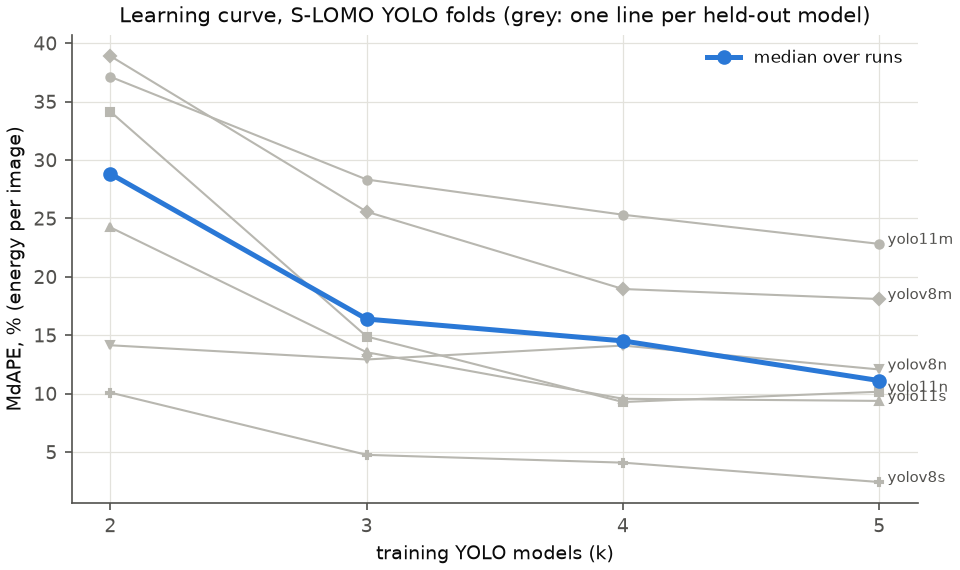
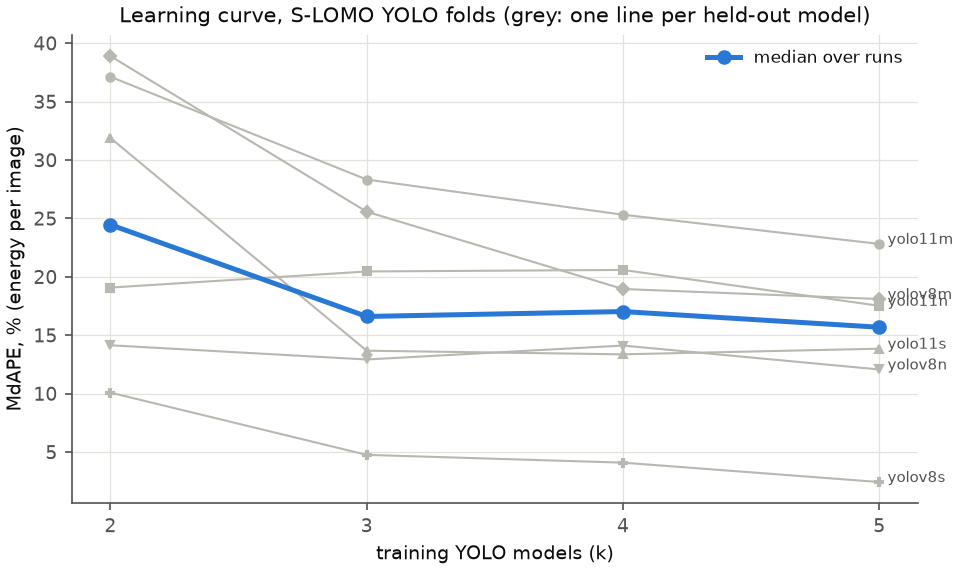
docs(analytics): regenerate results, model cards and figures (Mode L verdicts per configuration, per-fold learning curve, frozen-model hashes from the runlog)
Real-data runs: learning-curve (run ad18073d...) and report. No fit, no frozen pickle touched.

diff --git a/analytics/reports/results.md b/analytics/reports/results.md
@@ -18,18 +18,18 @@ Every row names one split, one target, one metric, an interval and a run_id. Int
 
 Mode L is a ladder: no single rung is the pre-registered headline, so every rung is listed with the same metric and interval. Counter overhead: counters-off (`ref`) cells drew +0.320 W (+3.34 %) against the same 1 configuration with counters on (`reports/eda.md`, section 7.2; family, order and the counters switch are confounded, so this bounds the overhead only loosely). Perf was running in every v2 counter cell, so the overhead is inside every number here.
 
-*Split: leave one YOLO base model out. Target: whole-cell energy. n = 161 held-out cells in 5 folds (dataset v2, nov2026 rig). run_id: `acc4f1bf2b524febb2565e1d8fe3e79b`. Mode A's energy noise floor (median repeat CV, configurations with at least 2 cells) 0.6 %, reused here as the indistinguishability margin.* Median whole-cell energy APE per rung over held-out cells; `L1-cell` is exploratory (see section 9).
+*Split: leave one YOLO base model out. Target: whole-cell energy. n = 161 held-out cells in 38 configurations and 5 folds (dataset v2, nov2026 rig). run_id: `acc4f1bf2b524febb2565e1d8fe3e79b`. Mode A's energy noise floor (median repeat CV, configurations with at least 2 cells) 0.6 %, reused here as the indistinguishability margin.* Median whole-cell energy APE per rung over held-out cells; `L1-cell` is exploratory (see section 9).
 
-| rung | split | target | metric | estimate | 95 % CI | n | run_id | status |
-|---|---|---|---|---|---|---|---|---|
-| L0 | leave one YOLO model out | whole-cell energy | MdAPE % | 5.8 | [3.4, 7.4] | 161 | acc4f1bf2b524febb2565e1d8fe3e79b | pre-registered rung |
-| L1 | leave one YOLO model out | whole-cell energy | MdAPE % | 6.7 | [4.7, 13.2] | 161 | acc4f1bf2b524febb2565e1d8fe3e79b | pre-registered rung |
-| L1-cell (exploratory) | leave one YOLO model out | whole-cell energy | MdAPE % | 5.6 | [4.2, 6.8] | 161 | acc4f1bf2b524febb2565e1d8fe3e79b | exploratory (added after a scored fold) |
-| L2 | leave one YOLO model out | whole-cell energy | MdAPE % | 5.1 | [4.3, 8.7] | 161 | acc4f1bf2b524febb2565e1d8fe3e79b | pre-registered rung |
-| L3-ridge | leave one YOLO model out | whole-cell energy | MdAPE % | 2.9 | [2.0, 4.1] | 161 | acc4f1bf2b524febb2565e1d8fe3e79b | pre-registered rung |
-| L3-trees | leave one YOLO model out | whole-cell energy | MdAPE % | 1.2 | [0.8, 1.5] | 161 | acc4f1bf2b524febb2565e1d8fe3e79b | pre-registered rung |
-| L4-ridge | leave one YOLO model out | whole-cell energy | MdAPE % | 3.1 | [2.2, 4.3] | 161 | acc4f1bf2b524febb2565e1d8fe3e79b | pre-registered rung |
-| L4-trees | leave one YOLO model out | whole-cell energy | MdAPE % | 1.2 | [0.6, 1.5] | 161 | acc4f1bf2b524febb2565e1d8fe3e79b | pre-registered rung |
+| rung | split | target | metric | estimate | 95 % CI | n | n configurations | run_id | status |
+|---|---|---|---|---|---|---|---|---|---|
+| L0 | leave one YOLO model out | whole-cell energy | MdAPE % | 5.8 | [3.4, 7.4] | 161 | 38 | acc4f1bf2b524febb2565e1d8fe3e79b | pre-registered rung |
+| L1 | leave one YOLO model out | whole-cell energy | MdAPE % | 6.7 | [4.7, 13.2] | 161 | 38 | acc4f1bf2b524febb2565e1d8fe3e79b | pre-registered rung |
+| L1-cell (exploratory) | leave one YOLO model out | whole-cell energy | MdAPE % | 5.6 | [4.2, 6.8] | 161 | 38 | acc4f1bf2b524febb2565e1d8fe3e79b | exploratory (added after a scored fold) |
+| L2 | leave one YOLO model out | whole-cell energy | MdAPE % | 5.1 | [4.3, 8.7] | 161 | 38 | acc4f1bf2b524febb2565e1d8fe3e79b | pre-registered rung |
+| L3-ridge | leave one YOLO model out | whole-cell energy | MdAPE % | 2.9 | [2.0, 4.1] | 161 | 38 | acc4f1bf2b524febb2565e1d8fe3e79b | pre-registered rung |
+| L3-trees | leave one YOLO model out | whole-cell energy | MdAPE % | 1.2 | [0.8, 1.5] | 161 | 38 | acc4f1bf2b524febb2565e1d8fe3e79b | pre-registered rung |
+| L4-ridge | leave one YOLO model out | whole-cell energy | MdAPE % | 3.1 | [2.2, 4.3] | 161 | 38 | acc4f1bf2b524febb2565e1d8fe3e79b | pre-registered rung |
+| L4-trees | leave one YOLO model out | whole-cell energy | MdAPE % | 1.2 | [0.6, 1.5] | 161 | 38 | acc4f1bf2b524febb2565e1d8fe3e79b | pre-registered rung |
 
 
 ### Findings at a glance (positive and negative)
@@ -40,26 +40,26 @@ Mode L is a ladder: no single rung is the pre-registered headline, so every rung
 - Mode A, S-LOMO energy: AUTO against the best baseline (B3 log-linear): **not significant** (median paired APE difference +4.97 pp, Holm p = 0.951, n = 58; run_id `aa634083491146caa1898cb53dd5b2dc`).
 - Mode A, S-LOMO energy: AUTO 90 % interval coverage 0.91 against the nominal 0.90, n = 58; coarse with 9 models.
 - Mode A, S-LOMO energy: 31 of 58 AUTO predictions carry the `no-similar-model` flag.
-- Mode L, whole-cell energy: L1 against L0: **worse** (median paired APE difference +1.33 pp, Holm p = 0.0178, n = 161; run_id `acc4f1bf2b524febb2565e1d8fe3e79b`).
-- Mode L, whole-cell energy: L1-cell (exploratory) against L0: **indistinguishable (below noise floor)** (median paired APE difference -0.42 pp, Holm p = 0.355, n = 161; run_id `acc4f1bf2b524febb2565e1d8fe3e79b`).
-- Mode L, whole-cell energy: L2 against L0: **not significant** (median paired APE difference -0.80 pp, Holm p = 0.162, n = 161; run_id `acc4f1bf2b524febb2565e1d8fe3e79b`).
-- Mode L, whole-cell energy: L3-ridge against L0: **better** (median paired APE difference -2.74 pp, Holm p = 1.85e-15, n = 161; run_id `acc4f1bf2b524febb2565e1d8fe3e79b`).
-- Mode L, whole-cell energy: L3-trees against L0: **better** (median paired APE difference -4.26 pp, Holm p = 1.21e-25, n = 161; run_id `acc4f1bf2b524febb2565e1d8fe3e79b`).
-- Mode L, whole-cell energy: L4-ridge against L0: **better** (median paired APE difference -2.86 pp, Holm p = 1.52e-13, n = 161; run_id `acc4f1bf2b524febb2565e1d8fe3e79b`).
-- Mode L, whole-cell energy: L4-trees against L0: **better** (median paired APE difference -4.13 pp, Holm p = 1.21e-25, n = 161; run_id `acc4f1bf2b524febb2565e1d8fe3e79b`).
-- Probe mode, L0: probe MdAPE 6.0 % against Mode A 18.0 % on the same pairs: **better** (median paired APE difference -12.26 pp, Holm p = 0.000109, n = 350 pairs; run_id `acc4f1bf2b524febb2565e1d8fe3e79b`).
-- Probe mode, L1: probe MdAPE 17.4 % against Mode A 18.0 % on the same pairs: **not significant** (median paired APE difference -1.90 pp, Holm p = 0.106, n = 350 pairs; run_id `acc4f1bf2b524febb2565e1d8fe3e79b`).
-- Probe mode, L1-cell (exploratory): probe MdAPE 13.8 % against Mode A 18.0 % on the same pairs: **not significant** (median paired APE difference -3.03 pp, Holm p = 0.106, n = 350 pairs; run_id `acc4f1bf2b524febb2565e1d8fe3e79b`).
-- Probe mode, L2: probe MdAPE 6.4 % against Mode A 18.0 % on the same pairs: **better** (median paired APE difference -11.69 pp, Holm p = 2.19e-05, n = 350 pairs; run_id `acc4f1bf2b524febb2565e1d8fe3e79b`).
-- Probe mode, L3-ridge: probe MdAPE 5.5 % against Mode A 18.0 % on the same pairs: **better** (median paired APE difference -12.36 pp, Holm p = 2.34e-08, n = 350 pairs; run_id `acc4f1bf2b524febb2565e1d8fe3e79b`).
-- Probe mode, L3-trees: probe MdAPE 4.3 % against Mode A 18.0 % on the same pairs: **better** (median paired APE difference -13.45 pp, Holm p = 1.11e-09, n = 350 pairs; run_id `acc4f1bf2b524febb2565e1d8fe3e79b`).
-- Probe mode, L4-ridge: probe MdAPE 5.6 % against Mode A 18.0 % on the same pairs: **better** (median paired APE difference -12.27 pp, Holm p = 3.89e-08, n = 350 pairs; run_id `acc4f1bf2b524febb2565e1d8fe3e79b`).
-- Probe mode, L4-trees: probe MdAPE 4.1 % against Mode A 18.0 % on the same pairs: **better** (median paired APE difference -13.45 pp, Holm p = 1.11e-09, n = 350 pairs; run_id `acc4f1bf2b524febb2565e1d8fe3e79b`).
+- Mode L, whole-cell energy: L1 against L0: **not significant** (median paired APE difference of the per-configuration mean APE +1.09 pp, Holm p = 0.148, n = 38 configurations (161 cells); run_id `acc4f1bf2b524febb2565e1d8fe3e79b`).
+- Mode L, whole-cell energy: L1-cell (exploratory) against L0: **not significant** (median paired APE difference of the per-configuration mean APE -0.62 pp, Holm p = 1, n = 38 configurations (161 cells); run_id `acc4f1bf2b524febb2565e1d8fe3e79b`).
+- Mode L, whole-cell energy: L2 against L0: **indistinguishable (below noise floor)** (median paired APE difference of the per-configuration mean APE -0.40 pp, Holm p = 1, n = 38 configurations (161 cells); run_id `acc4f1bf2b524febb2565e1d8fe3e79b`).
+- Mode L, whole-cell energy: L3-ridge against L0: **better** (median paired APE difference of the per-configuration mean APE -2.86 pp, Holm p = 3.3e-05, n = 38 configurations (161 cells); run_id `acc4f1bf2b524febb2565e1d8fe3e79b`).
+- Mode L, whole-cell energy: L3-trees against L0: **better** (median paired APE difference of the per-configuration mean APE -3.76 pp, Holm p = 2.55e-10, n = 38 configurations (161 cells); run_id `acc4f1bf2b524febb2565e1d8fe3e79b`).
+- Mode L, whole-cell energy: L4-ridge against L0: **better** (median paired APE difference of the per-configuration mean APE -2.82 pp, Holm p = 0.000315, n = 38 configurations (161 cells); run_id `acc4f1bf2b524febb2565e1d8fe3e79b`).
+- Mode L, whole-cell energy: L4-trees against L0: **better** (median paired APE difference of the per-configuration mean APE -3.90 pp, Holm p = 2.55e-10, n = 38 configurations (161 cells); run_id `acc4f1bf2b524febb2565e1d8fe3e79b`).
+- Probe mode, L0: probe MdAPE 6.0 % against Mode A 18.0 % on the same pairs: **better** (median paired APE difference -12.26 pp, Holm p = 0.000109, n = 38 configurations, 350 pairs; run_id `acc4f1bf2b524febb2565e1d8fe3e79b`).
+- Probe mode, L1: probe MdAPE 17.4 % against Mode A 18.0 % on the same pairs: **not significant** (median paired APE difference -1.90 pp, Holm p = 0.106, n = 38 configurations, 350 pairs; run_id `acc4f1bf2b524febb2565e1d8fe3e79b`).
+- Probe mode, L1-cell (exploratory): probe MdAPE 13.8 % against Mode A 18.0 % on the same pairs: **not significant** (median paired APE difference -3.03 pp, Holm p = 0.106, n = 38 configurations, 350 pairs; run_id `acc4f1bf2b524febb2565e1d8fe3e79b`).
+- Probe mode, L2: probe MdAPE 6.4 % against Mode A 18.0 % on the same pairs: **better** (median paired APE difference -11.69 pp, Holm p = 2.19e-05, n = 38 configurations, 350 pairs; run_id `acc4f1bf2b524febb2565e1d8fe3e79b`).
+- Probe mode, L3-ridge: probe MdAPE 5.5 % against Mode A 18.0 % on the same pairs: **better** (median paired APE difference -12.36 pp, Holm p = 2.34e-08, n = 38 configurations, 350 pairs; run_id `acc4f1bf2b524febb2565e1d8fe3e79b`).
+- Probe mode, L3-trees: probe MdAPE 4.3 % against Mode A 18.0 % on the same pairs: **better** (median paired APE difference -13.45 pp, Holm p = 1.11e-09, n = 38 configurations, 350 pairs; run_id `acc4f1bf2b524febb2565e1d8fe3e79b`).
+- Probe mode, L4-ridge: probe MdAPE 5.6 % against Mode A 18.0 % on the same pairs: **better** (median paired APE difference -12.27 pp, Holm p = 3.89e-08, n = 38 configurations, 350 pairs; run_id `acc4f1bf2b524febb2565e1d8fe3e79b`).
+- Probe mode, L4-trees: probe MdAPE 4.1 % against Mode A 18.0 % on the same pairs: **better** (median paired APE difference -13.45 pp, Holm p = 1.11e-09, n = 38 configurations, 350 pairs; run_id `acc4f1bf2b524febb2565e1d8fe3e79b`).
 
 
 ## 2. Mode A results by split and target
 
-Candidates in protocol order: B0 median, B1 energy proportional to MACs per clock, B2 most similar seen model scaled by MACs, B3 log-linear OLS, M1 ridge, M2 gradient-boosted trees, M3 factored latency x power (energy only), AUTO (best of M1 to M3 by inner leave-one-model-out MdAPE). Baselines have no prediction interval, so their coverage is blank. Coverage rests on few clusters and is coarse. Paired tests use absolute log errors per test configuration; "indistinguishable" means the median paired APE difference is below the noise floor.
+Candidates in protocol order: B0 median, B1 energy proportional to MACs per clock, B2 most similar seen model scaled by MACs, B3 log-linear OLS, M1 ridge, M2 gradient-boosted trees, M3 factored latency x power (energy only), AUTO (best of M1 to M3 by inner leave-one-model-out MdAPE). Every candidate, baselines included, has a 90 % prediction interval from its own inner leave-one-model-out residual quantiles, so coverage is reported for all of them. Coverage rests on few clusters and is coarse. Paired tests use absolute log errors per test configuration; "indistinguishable" means the median paired APE difference is below the noise floor.
 
 ### S-LOMO
 
@@ -1091,14 +1091,14 @@ AUTO MdAPE ranges from 17.5 % to 17.5 % over the 3 seeds present.
 
 ## 6. Learning curve
 
-*Split: S-LOMO YOLO folds. Target: energy_mJ. n = 156 fits. run_id: `07760854b3ab477c993e7f4a5ecbf969`. Noise floor (median repeat CV, configurations with at least 2 cells) 0.6 %.* Candidate M1 ridge with the final-fit hyperparameters (no inner search); seed 20261122; at most 10 training subsets per k, all other configurations (non-YOLO) always in training.
+*Split: S-LOMO YOLO folds. Target: energy_mJ. n = 156 fits. run_id: `ad18073de0824e1e80b5d7038c461236`, `aa634083491146caa1898cb53dd5b2dc`. Noise floor (median repeat CV, configurations with at least 2 cells) 0.6 %.* Candidate M1 ridge, no inner search; each held-out model is fitted with the hyperparameters its own S-LOMO outer fold chose (second run id; these never saw the held-out model): yolo11m: alpha=10; yolo11n: alpha=0.01; yolo11s: alpha=1; yolov8m: alpha=10; yolov8n: alpha=10; yolov8s: alpha=10; seed 20261122; at most 10 training subsets per k, all other configurations (non-YOLO) always in training.
 
 | k training YOLO models | n | held-out models | median MdAPE % | IQR % | worst held-out model (median over subsets) % |
 |---|---|---|---|---|---|
-| 2 | 60 | 6 | 28.8 | 12.6 to 43.2 | yolov8m 38.9 |
-| 3 | 60 | 6 | 16.4 | 8.0 to 28.3 | yolo11m 28.3 |
-| 4 | 30 | 6 | 14.5 | 7.5 to 20.3 | yolo11m 25.3 |
-| 5 | 6 | 6 | 11.1 | 9.6 to 16.6 | yolo11m 22.8 |
+| 2 | 60 | 6 | 24.5 | 12.6 to 40.2 | yolov8m 38.9 |
+| 3 | 60 | 6 | 16.6 | 10.0 to 25.0 | yolo11m 28.3 |
+| 4 | 30 | 6 | 17.0 | 13.0 to 20.7 | yolo11m 25.3 |
+| 5 | 6 | 6 | 15.7 | 12.5 to 18.0 | yolo11m 22.8 |
 
 
 ![MdAPE against number of training YOLO models](fig/report_learning_curve.png)
@@ -1183,21 +1183,21 @@ The calculator is fed only held-out Mode A predictions. The fan rows fit their o
 
 Rungs in protocol order; each is fitted on the other YOLO base models and scored on the held-out model's cells (whole-cell energy from 100 ms window power predictions). Intervals are cluster bootstrap over the held-out base models (5 clusters, so wide). `L1-cell` is exploratory: it was added after a scored smoke fold (protocol amendment of 2026-11-23, `analytics/PROTOCOL.md`). `L1` is the pre-registered PMIC rung. Counter overhead: counters-off (`ref`) cells drew +0.320 W (+3.34 %) against the same 1 configuration with counters on (`reports/eda.md`, section 7.2; family, order and the counters switch are confounded, so this bounds the overhead only loosely). Perf was running in every v2 counter cell, so the overhead is inside every number here.
 
-*Split: leave one YOLO base model out. Target: whole-cell energy. n = 161 held-out cells in 5 folds (dataset v2, nov2026 rig). run_id: `acc4f1bf2b524febb2565e1d8fe3e79b`. Mode A's energy noise floor (median repeat CV, configurations with at least 2 cells) 0.6 %, reused here as the indistinguishability margin.* Whole cell, measured segment, 1 s and 10 s horizons.
+*Split: leave one YOLO base model out. Target: whole-cell energy. n = 161 held-out cells in 38 configurations and 5 folds (dataset v2, nov2026 rig). run_id: `acc4f1bf2b524febb2565e1d8fe3e79b`. Mode A's energy noise floor (median repeat CV, configurations with at least 2 cells) 0.6 %, reused here as the indistinguishability margin.* Whole cell, measured segment, 1 s and 10 s horizons; the MdAPE is over cells, the last statistic over configurations.
 
-| rung | n | whole-cell MdAPE % [95 % CI] | whole-cell bias % [95 % CI] | measured-segment MdAPE % [95 % CI] | n measured | 1 s block APE % | 10 s block APE % | window MAE W | L1 fallback share |
-|---|---|---|---|---|---|---|---|---|---|
-| L0 | 161 | 5.8 [3.4, 7.4] | 3.4 [-4.9, 6.6] | 5.8 [4.2, 8.2] | 161 | 7.0 | 6.1 | 0.719 |  |
-| L1 | 161 | 6.7 [4.7, 13.2] | 1.6 [-7.7, 4.5] | 13.6 [12.2, 20.0] | 161 | 17.8 | 8.6 | 1.883 | 0.000 |
-| L1-cell (exploratory) | 161 | 5.6 [4.2, 6.8] | 0.9 [-3.8, 3.0] | 12.2 [10.9, 12.6] | 161 | 17.0 | 8.5 | 1.953 | 0.000 |
-| L2 | 161 | 5.1 [4.3, 8.7] | 2.3 [-4.4, 4.4] | 7.0 [4.9, 9.2] | 161 | 5.4 | 5.5 | 0.562 |  |
-| L3-ridge | 161 | 2.9 [2.0, 4.1] | 0.3 [-2.9, 1.1] | 3.3 [2.3, 6.1] | 161 | 3.9 | 3.2 | 0.383 |  |
-| L3-trees | 161 | 1.2 [0.8, 1.5] | -0.0 [-1.5, 0.7] | 1.8 [1.0, 2.3] | 161 | 1.3 | 1.4 | 0.177 |  |
-| L4-ridge | 161 | 3.1 [2.2, 4.3] | 0.5 [-3.0, 1.1] | 3.8 [2.1, 6.3] | 161 | 3.9 | 3.4 | 0.390 |  |
-| L4-trees | 161 | 1.2 [0.6, 1.5] | 0.1 [-1.5, 0.9] | 1.9 [1.0, 2.3] | 161 | 1.6 | 1.4 | 0.199 |  |
+| rung | n | n configurations | whole-cell MdAPE % [95 % CI] | whole-cell bias % [95 % CI] | median per-configuration mean APE % | measured-segment MdAPE % [95 % CI] | n measured | 1 s block APE % | 10 s block APE % | window MAE W | L1 fallback share |
+|---|---|---|---|---|---|---|---|---|---|---|---|
+| L0 | 161 | 38 | 5.8 [3.4, 7.4] | 3.4 [-4.9, 6.6] | 6.1 | 5.8 [4.2, 8.2] | 161 | 7.0 | 6.1 | 0.719 |  |
+| L1 | 161 | 38 | 6.7 [4.7, 13.2] | 1.6 [-7.7, 4.5] | 7.6 | 13.6 [12.2, 20.0] | 161 | 17.8 | 8.6 | 1.883 | 0.000 |
+| L1-cell (exploratory) | 161 | 38 | 5.6 [4.2, 6.8] | 0.9 [-3.8, 3.0] | 6.0 | 12.2 [10.9, 12.6] | 161 | 17.0 | 8.5 | 1.953 | 0.000 |
+| L2 | 161 | 38 | 5.1 [4.3, 8.7] | 2.3 [-4.4, 4.4] | 5.3 | 7.0 [4.9, 9.2] | 161 | 5.4 | 5.5 | 0.562 |  |
+| L3-ridge | 161 | 38 | 2.9 [2.0, 4.1] | 0.3 [-2.9, 1.1] | 3.3 | 3.3 [2.3, 6.1] | 161 | 3.9 | 3.2 | 0.383 |  |
+| L3-trees | 161 | 38 | 1.2 [0.8, 1.5] | -0.0 [-1.5, 0.7] | 1.1 | 1.8 [1.0, 2.3] | 161 | 1.3 | 1.4 | 0.177 |  |
+| L4-ridge | 161 | 38 | 3.1 [2.2, 4.3] | 0.5 [-3.0, 1.1] | 3.2 | 3.8 [2.1, 6.3] | 161 | 3.9 | 3.4 | 0.390 |  |
+| L4-trees | 161 | 38 | 1.2 [0.6, 1.5] | 0.1 [-1.5, 0.9] | 1.1 | 1.9 [1.0, 2.3] | 161 | 1.6 | 1.4 | 0.199 |  |
 
 
-*Split: leave one YOLO base model out. Target: whole-cell energy. n = 161 held-out cells in 5 folds (dataset v2, nov2026 rig). run_id: `acc4f1bf2b524febb2565e1d8fe3e79b`. Mode A's energy noise floor (median repeat CV, configurations with at least 2 cells) 0.6 %, reused here as the indistinguishability margin.* Median phase energy APE per rung and phase (cells that have the phase).
+*Split: leave one YOLO base model out. Target: whole-cell energy. n = 161 held-out cells in 38 configurations and 5 folds (dataset v2, nov2026 rig). run_id: `acc4f1bf2b524febb2565e1d8fe3e79b`. Mode A's energy noise floor (median repeat CV, configurations with at least 2 cells) 0.6 %, reused here as the indistinguishability margin.* Median phase energy APE per rung and phase (cells that have the phase).
 
 | rung | n | idle | load_weights | warmup | forward | serve |
 |---|---|---|---|---|---|---|
@@ -1211,7 +1211,7 @@ Rungs in protocol order; each is fitted on the other YOLO base models and scored
 | L4-trees | 161 | 0.6 (n=161) |  | 0.7 (n=161) | 1.9 (n=161) | 1.9 (n=161) |
 
 
-*Split: leave one YOLO base model out. Target: whole-cell energy. n = 161 held-out cells in 5 folds (dataset v2, nov2026 rig). run_id: `acc4f1bf2b524febb2565e1d8fe3e79b`. Mode A's energy noise floor (median repeat CV, configurations with at least 2 cells) 0.6 %, reused here as the indistinguishability margin.* Median whole-cell APE per rung and dataset family.
+*Split: leave one YOLO base model out. Target: whole-cell energy. n = 161 held-out cells in 38 configurations and 5 folds (dataset v2, nov2026 rig). run_id: `acc4f1bf2b524febb2565e1d8fe3e79b`. Mode A's energy noise floor (median repeat CV, configurations with at least 2 cells) 0.6 %, reused here as the indistinguishability margin.* Median whole-cell APE per rung and dataset family.
 
 | rung | n | A | A-input | B | C | D | soak |
 |---|---|---|---|---|---|---|---|
@@ -1225,20 +1225,20 @@ Rungs in protocol order; each is fitted on the other YOLO base models and scored
 | L4-trees | 161 | 1.1 (n=44) | 1.4 (n=6) | 2.6 (n=15) | 0.7 (n=60) | 2.2 (n=34) | 4.9 (n=2) |
 
 
-*Split: leave one YOLO base model out. Target: whole-cell energy. n = 161 held-out cells in 5 folds (dataset v2, nov2026 rig). run_id: `acc4f1bf2b524febb2565e1d8fe3e79b`. Mode A's energy noise floor (median repeat CV, configurations with at least 2 cells) 0.6 %, reused here as the indistinguishability margin.* Each rung against L0, paired by held-out cell, Holm over the family.
+*Split: leave one YOLO base model out. Target: whole-cell energy. n = 161 held-out cells in 38 configurations and 5 folds (dataset v2, nov2026 rig). run_id: `acc4f1bf2b524febb2565e1d8fe3e79b`. Mode A's energy noise floor (median repeat CV, configurations with at least 2 cells) 0.6 %, reused here as the indistinguishability margin.* Each rung against L0, paired by held-out configuration (Wilcoxon on per-configuration mean absolute log errors, Holm over the family); n counts configurations, each the mean over its held-out cells.
 
-| rung | vs | n | median paired diff, APE (pp) | Wilcoxon p | Holm p | verdict |
-|---|---|---|---|---|---|---|
-| L1 | L0 | 161 | +1.33 | 0.00592 | 0.0178 | worse |
-| L1-cell (exploratory) | L0 | 161 | -0.42 | 0.355 | 0.355 | indistinguishable (below noise floor) |
-| L2 | L0 | 161 | -0.80 | 0.0808 | 0.162 | not significant |
-| L3-ridge | L0 | 161 | -2.74 | 3.7e-16 | 1.85e-15 | better |
-| L3-trees | L0 | 161 | -4.26 | 1.72e-26 | 1.21e-25 | better |
-| L4-ridge | L0 | 161 | -2.86 | 3.81e-14 | 1.52e-13 | better |
-| L4-trees | L0 | 161 | -4.13 | 1.89e-26 | 1.21e-25 | better |
+| rung | vs | n configurations | n cells | median paired diff, per-configuration mean APE (pp) | median paired diff, abs log error | Wilcoxon p | Holm p | verdict |
+|---|---|---|---|---|---|---|---|---|
+| L1 | L0 | 38 | 161 | +1.09 | +0.0105 | 0.0495 | 0.148 | not significant |
+| L1-cell (exploratory) | L0 | 38 | 161 | -0.62 | -0.0055 | 0.897 | 1 | not significant |
+| L2 | L0 | 38 | 161 | -0.40 | -0.0047 | 0.646 | 1 | indistinguishable (below noise floor) |
+| L3-ridge | L0 | 38 | 161 | -2.86 | -0.0296 | 6.6e-06 | 3.3e-05 | better |
+| L3-trees | L0 | 38 | 161 | -3.76 | -0.0378 | 3.64e-11 | 2.55e-10 | better |
+| L4-ridge | L0 | 38 | 161 | -2.82 | -0.0285 | 7.88e-05 | 0.000315 | better |
+| L4-trees | L0 | 38 | 161 | -3.90 | -0.0391 | 3.64e-11 | 2.55e-10 | better |
 
 
-*Split: leave one YOLO base model out. Target: whole-cell energy. n = 161 held-out cells in 5 folds (dataset v2, nov2026 rig). run_id: `acc4f1bf2b524febb2565e1d8fe3e79b`. Mode A's energy noise floor (median repeat CV, configurations with at least 2 cells) 0.6 %, reused here as the indistinguishability margin.* Whole-cell energy APE per rung.
+*Split: leave one YOLO base model out. Target: whole-cell energy. n = 161 held-out cells in 38 configurations and 5 folds (dataset v2, nov2026 rig). run_id: `acc4f1bf2b524febb2565e1d8fe3e79b`. Mode A's energy noise floor (median repeat CV, configurations with at least 2 cells) 0.6 %, reused here as the indistinguishability margin.* Whole-cell energy APE per rung.
 
 ![Mode L whole-cell APE per rung](fig/report_mode_l_ape.png)
 
@@ -1339,7 +1339,7 @@ Table sha256 `8a1c44ad7cc16fb9`; split hashes (sha256, 12 characters): S-LOMO `0
 | seed spread (S-LOMO energy) | aa634083491146caa1898cb53dd5b2dc | mode-a | S-LOMO | energy_mJ | 20261122 | 464 | ad0ab1cdc1 | yes | 2026-11-23T14:40:07+00:00 |
 | seed spread (S-LOMO energy) | ef84ce756b244fb0bbf09737556fcb5f | mode-a | S-LOMO | energy_mJ | 20261123 | 464 | ad0ab1cdc1 | yes | 2026-11-23T15:06:36+00:00 |
 | seed spread (S-LOMO energy) | 077aac8ff01a43dd83800dbda7caea08 | mode-a | S-LOMO | energy_mJ | 20261124 | 464 | ad0ab1cdc1 | yes | 2026-11-23T15:12:25+00:00 |
-| extras learning_curve | 07760854b3ab477c993e7f4a5ecbf969 | mode-a-extras |  | energy_mJ | 20261122 | 156 | ad0ab1cdc1 | yes | 2026-11-23T16:04:53+00:00 |
+| extras learning_curve | ad18073de0824e1e80b5d7038c461236 | learning-curve |  | energy_mJ | 20261122 | 156 | 990caa569c | no | 2026-11-23T19:09:23+00:00 |
 | extras pooled | 19d93b0883fe4319b5861cb24162da71 | mode-a-extras | S-LOMO | energy_mJ | 20261122 | 392 | ad0ab1cdc1 | yes | 2026-11-23T16:08:28+00:00 |
 | extras v2only | 7f152464fe184f778d7053983a7a8de0 | mode-a-extras | S-LOMO | energy_mJ | 20261122 | 344 | ad0ab1cdc1 | yes | 2026-11-23T16:10:30+00:00 |
 | Mode L lomo | acc4f1bf2b524febb2565e1d8fe3e79b | mode-l |  |  | 20261122 | 1288 | ad0ab1cdc1 | yes | 2026-11-23T15:29:52+00:00 |

diff --git a/analytics/reports/model_card_mode_l.md b/analytics/reports/model_card_mode_l.md
@@ -32,7 +32,7 @@ L0: clock, governor, fan and busy / idle (task-clock share over 0.5). L1: PMIC r
 
 ## Headline metrics
 
-*Split: leave one YOLO base model out. Target: whole-cell energy. n = 161 held-out cells in 5 folds (dataset v2, nov2026 rig). run_id: `acc4f1bf2b524febb2565e1d8fe3e79b`. Mode A's energy noise floor (median repeat CV, configurations with at least 2 cells) 0.6 %, reused here as the indistinguishability margin.* Interval: cluster bootstrap over the 5 held-out base models.
+*Split: leave one YOLO base model out. Target: whole-cell energy. n = 161 held-out cells in 38 configurations and 5 folds (dataset v2, nov2026 rig). run_id: `acc4f1bf2b524febb2565e1d8fe3e79b`. Mode A's energy noise floor (median repeat CV, configurations with at least 2 cells) 0.6 %, reused here as the indistinguishability margin.* Interval: cluster bootstrap over the 5 held-out base models.
 
 | rung | n | whole-cell MdAPE % [95 % CI] | whole-cell bias % [95 % CI] | 1 s block APE % | 10 s block APE % |
 |---|---|---|---|---|---|
@@ -54,7 +54,7 @@ Mode L produces point predictions only: no prediction intervals, so there is no 
 
 ## Worst subgroups
 
-*Split: leave one YOLO base model out. Target: whole-cell energy. n = 161 held-out cells in 5 folds (dataset v2, nov2026 rig). run_id: `acc4f1bf2b524febb2565e1d8fe3e79b`. Mode A's energy noise floor (median repeat CV, configurations with at least 2 cells) 0.6 %, reused here as the indistinguishability margin.* Per held-out base model, median whole-cell APE of the rung with the lowest overall MdAPE among the non-exploratory rungs.
+*Split: leave one YOLO base model out. Target: whole-cell energy. n = 161 held-out cells in 38 configurations and 5 folds (dataset v2, nov2026 rig). run_id: `acc4f1bf2b524febb2565e1d8fe3e79b`. Mode A's energy noise floor (median repeat CV, configurations with at least 2 cells) 0.6 %, reused here as the indistinguishability margin.* Per held-out base model, median whole-cell APE of the rung with the lowest overall MdAPE among the non-exploratory rungs.
 
 | rung | held-out base model | n | MdAPE % |
 |---|---|---|---|
@@ -65,7 +65,7 @@ Mode L produces point predictions only: no prediction intervals, so there is no 
 | L3-trees | yolo11s | 34 | 0.7 |
 
 
-*Split: leave one YOLO base model out. Target: phase energy. n = 161 held-out cells in 5 folds (dataset v2, nov2026 rig). run_id: `acc4f1bf2b524febb2565e1d8fe3e79b`. Mode A's energy noise floor (median repeat CV, configurations with at least 2 cells) 0.6 %, reused here as the indistinguishability margin.* Median APE per phase.
+*Split: leave one YOLO base model out. Target: phase energy. n = 161 held-out cells in 38 configurations and 5 folds (dataset v2, nov2026 rig). run_id: `acc4f1bf2b524febb2565e1d8fe3e79b`. Mode A's energy noise floor (median repeat CV, configurations with at least 2 cells) 0.6 %, reused here as the indistinguishability margin.* Median APE per phase.
 
 | rung | n | idle | load_weights | warmup | forward | serve |
 |---|---|---|---|---|---|---|
@@ -88,9 +88,38 @@ Mode L produces point predictions only: no prediction intervals, so there is no 
 - Counter data is YOLO-only until the lockbox adds non-YOLO cells; Mode L folds are the five YOLO models with counter cells (yolov8n has none: its v2 cells are the counters-off `ref` family).
 - Perf runs during deployment too, so its overhead is inside both the training data and any later use.
 - One Raspberry Pi 5 and one Monsoon rig; nothing here transfers to other boards or meters.
-- No Mode L model file is frozen yet: the final rung is refitted on all data when the lockbox is frozen.
+- The eight rungs are frozen (`final-mode-l`): each was fitted once on 161 cells (198,619 windows) of YOLO v8/11 models; non-YOLO models are an extrapolation the lockbox tests. A refit after the lockbox is measured is refused.
 
 
 ## Hashes and runs
 
-Mode L run `acc4f1bf2b524febb2565e1d8fe3e79b` (parts lomo, pmic_v1, probe), seed 20261122, commit `ad0ab1cdc1`, data hash `09890ae9fab489b9`. Probe mode used Mode A run(s) `aa634083491146caa1898cb53dd5b2dc`.
+Pickles are not committed. Each is identified by the sha256 recorded in `runs.jsonl` (command `mode-a-extras`, `final-mode-a-secondary` or `final-mode-l`); `lockbox-predict` and `lockbox-score` refuse a pickle whose hash differs, and the fit commands refuse to run once `lockbox_predictions.csv` or `lockbox_frozen_models.json` exists. The `file` column compares the pickle on the machine that built this card with the recorded hash.
+
+*Split: all training data. Target: frozen Mode A models. n = 7 frozen Mode A models. run_id: `2543bfac27da45c8bfaf5c92fbd1e31e`, `a730e59128f34439a920bd73dfe2b696`, `14fe0b4726384159b316722b224172c3`, `b4a2507e14b64bb883685408481acc74`, `329a9d1abd9543e68044a4449ad811f5`, `9130b293320c4c9899231458cc1135d9`, `953612c6e9c44922839f9b62cc2bb400`.* Mode L rungs are fitted on every QC-primary counter cell of the YOLO base models. Roles: `primary` is the AUTO-final candidate of the target (`mode-a-extras`), `secondary` the pre-declared extras (`final-mode-a-secondary`). 
+
+| target | candidate | role | params | sha256 | run_id | command | trained on | AUTO chose (folds) | S-LOMO run | file |
+|---|---|---|---|---|---|---|---|---|---|---|
+| energy_mJ | M1Ridge | primary | {"alpha": 10.0} | 0d7b2cc339c242b06e5a7733cf1fb4a6429c30271081577c91452df6c904dea2 | 2543bfac27da45c8bfaf5c92fbd1e31e | mode-a-extras | 58 configurations | {"M1Ridge": 6, "M3Factored": 3} | aa634083491146caa1898cb53dd5b2dc | matches |
+| energy_mJ | B3LogLinear | secondary | {} | cb0c40502b3b395bb0326d5c18e61b5be128f5fd4f9367a325f8e6781630b599 | a730e59128f34439a920bd73dfe2b696 | final-mode-a-secondary | 58 configurations |  |  | matches |
+| energy_mJ | M3Factored | secondary | {"latency": {"name": "M1Ridge", "params": {"alpha": 10.0}}, "power": {"name": "M1Ridge", "params": {"alpha": 0.1}}} | b15b9ce067454687a96a27eadf31c5a70f4723e61fb9882f0c85fbe37f269950 | 14fe0b4726384159b316722b224172c3 | final-mode-a-secondary | 58 configurations |  |  | matches |
+| latency_ms | M1Ridge | primary | {"alpha": 10.0} | d558746cd4c550a1c94c5255ce867a3e9a5f1a7d3a185131446141134a70b561 | b4a2507e14b64bb883685408481acc74 | mode-a-extras | 58 configurations | {"M1Ridge": 9} | d8d7ac3750c442d292c0a01511667235 | matches |
+| latency_ms | B3LogLinear | secondary | {} | aee0cf2e2054290e13e4693e8b67d503a129bba7426607795977885f222638a9 | 329a9d1abd9543e68044a4449ad811f5 | final-mode-a-secondary | 58 configurations |  |  | matches |
+| mean_P_W | M1Ridge | primary | {"alpha": 0.1} | 1180cf9f1c277014e575ba60f3ef7ddc84e7f37ce9d80fd907f5a45419adc961 | 9130b293320c4c9899231458cc1135d9 | mode-a-extras | 58 configurations | {"M1Ridge": 6, "M2Trees": 3} | a2b6e23cd011443f94994a250137159f | matches |
+| mean_P_W | B3LogLinear | secondary | {} | 7e1d0bdbbf7f0cb24050ec04b7342ba8681b355ca823496d66223c6758f218da | 953612c6e9c44922839f9b62cc2bb400 | final-mode-a-secondary | 58 configurations |  |  | matches |
+
+
+*Split: all training data. Target: frozen Mode L rungs. n = 8 frozen Mode L rungs. run_id: `66e8d6a51ac44595b0c46475b02a8c1b`, `5a06c7fda7914b8ebe8e040def4e9a2b`, `8238906e9a514389b4e60883272c652d`, `1dcfeb0b52d84bb2b8669c81637a6e36`, `97282373d11c468d9ebeb9c878a1762f`, `5dd3c845fc954b228b5849ed59488b50`, `95b3c3818cab45e8995863d1997b3346`, `b7f5c785c1f34e4489ee9519dd61b58f`.* `final-mode-l`: grid by leave-one-YOLO-model-out, refit on every QC-primary counter cell of the YOLO base models. 
+
+| rung | role | params | sha256 | run_id | cells | windows | file |
+|---|---|---|---|---|---|---|---|
+| L0 | secondary (pre-declared) | {} | a4c593764baf99d9a085b92bbd80d760feed4747275225ee0703d29568252649 | 66e8d6a51ac44595b0c46475b02a8c1b | 161 | 198619 | matches |
+| L1 | secondary (pre-declared) | {} | 00b9d92dc4bda699467a351635e96020e1df3b1484f3b02dc5d87ac6b352726c | 5a06c7fda7914b8ebe8e040def4e9a2b | 161 | 198619 | matches |
+| L1-cell | exploratory | {} | d0913ceb68774f68b36c06aeeb35a6e1d6bb747f7ed1e5e6361878af9c618413 | 8238906e9a514389b4e60883272c652d | 161 | 198619 | matches |
+| L2 | reported | {"alpha": 10.0} | 3a8ee3ca3ba1944fb428347d7b6834c8503ec473d4158820519eb3bd9871c6e5 | 1dcfeb0b52d84bb2b8669c81637a6e36 | 161 | 198619 | matches |
+| L3-ridge | reported | {"alpha": 0.1} | 6d6308ad41c04b9e94ac5f6194173e901120a26bf87c42d9b51feb153fcf5b78 | 97282373d11c468d9ebeb9c878a1762f | 161 | 198619 | matches |
+| L3-trees | secondary (pre-declared) | {"learning_rate": 0.1, "max_depth": 5, "max_iter": 200, "min_samples_leaf": 50} | 0d3aee5cfc383dd5307953d08c14f8d9378ab8929f455545fd3304f40e3c9ea5 | 5dd3c845fc954b228b5849ed59488b50 | 161 | 198619 | matches |
+| L4-ridge | reported | {"alpha": 0.01} | e4960733492f3142bef2e3244a36623583c126235a064d33f8ea9ebb613ac211 | 95b3c3818cab45e8995863d1997b3346 | 161 | 198619 | matches |
+| L4-trees | secondary (pre-declared) | {"learning_rate": 0.1, "max_depth": 5, "max_iter": 200, "min_samples_leaf": 50} | 9a711735eb3c665063f319e3c43f9f0b4a8d4a24432e57482fddf65ce58314fc | b7f5c785c1f34e4489ee9519dd61b58f | 161 | 198619 | matches |
+
+
+Evaluation: Mode L run `acc4f1bf2b524febb2565e1d8fe3e79b` (parts lomo, pmic_v1, probe), seed 20261122, commit `ad0ab1cdc1`, data hash `09890ae9fab489b9`. Probe mode used Mode A run(s) `aa634083491146caa1898cb53dd5b2dc`.

diff --git a/analytics/reports/model_card_mode_a.md b/analytics/reports/model_card_mode_a.md
@@ -25,7 +25,7 @@ Training data: the Mode A configuration table, 58 configurations from 226 QC-pri
 
 ## Features
 
-Known before running anything: `log_macs`, `log_params`, `log_weight_bytes`, `log_act_bytes`, `depth`, `frac_macs_conv`, `frac_macs_linear`, `frac_macs_norm`, `frac_macs_act`, `frac_macs_pool`, `frac_macs_other`, `imgsz`, `batch`, `threads`, `cpu_ghz`, `is_int8`, `is_fp16`, `n_quantized_modules`. Never used: latency, temperature, baseline power or counters of the run being predicted.
+Known before running anything: `log_macs`, `log_params`, `log_weight_bytes`, `log_act_bytes`, `depth`, `frac_macs_conv`, `frac_macs_linear`, `frac_macs_norm`, `frac_macs_act`, `frac_macs_pool`, `frac_macs_other`, `imgsz`, `batch`, `threads`, `cpu_ghz`, `is_int8`, `is_fp16`, `n_quantized_modules`, `rig_nov`. `rig_nov` is 1 for the nov2026 rig and 0 for the oct2026 rig (derived from the `rig` column); M1 and M2 use all of them, B3 uses `log_macs`, `log_params`, `cpu_ghz`, `threads`, `batch`, `is_int8`, `is_fp16`. Never used: latency, temperature, baseline power or counters of the run being predicted.
 
 ## Headline metrics
 
@@ -87,13 +87,33 @@ AUTO on S-LOMO energy, the three base models and the similarity classes with the
 
 ## Hashes and runs
 
-*Split: all data. Target: energy_mJ, latency_ms, mean_P_W. n = 3 final models trained on 58 configurations. run_id: `2543bfac27da45c8bfaf5c92fbd1e31e`, `b4a2507e14b64bb883685408481acc74`, `9130b293320c4c9899231458cc1135d9`.* Final models are refitted on every configuration, grid chosen by leave-one-model-out; binaries are not committed (rebuilt by `cli.py mode-a-extras`).
+Pickles are not committed. Each is identified by the sha256 recorded in `runs.jsonl` (command `mode-a-extras`, `final-mode-a-secondary` or `final-mode-l`); `lockbox-predict` and `lockbox-score` refuse a pickle whose hash differs, and the fit commands refuse to run once `lockbox_predictions.csv` or `lockbox_frozen_models.json` exists. The `file` column compares the pickle on the machine that built this card with the recorded hash.
 
-| target | candidate | params | AUTO chose (folds) | sha256 | run_id |
-|---|---|---|---|---|---|
-| energy_mJ | M1Ridge | {"alpha": 10.0} | {"M1Ridge": 6, "M3Factored": 3} | 0d7b2cc339c242b06e5a7733cf1fb4a6429c30271081577c91452df6c904dea2 | 2543bfac27da45c8bfaf5c92fbd1e31e |
-| latency_ms | M1Ridge | {"alpha": 10.0} | {"M1Ridge": 9} | d558746cd4c550a1c94c5255ce867a3e9a5f1a7d3a185131446141134a70b561 | b4a2507e14b64bb883685408481acc74 |
-| mean_P_W | M1Ridge | {"alpha": 0.1} | {"M1Ridge": 6, "M2Trees": 3} | 1180cf9f1c277014e575ba60f3ef7ddc84e7f37ce9d80fd907f5a45419adc961 | 9130b293320c4c9899231458cc1135d9 |
+*Split: all training data. Target: frozen Mode A models. n = 7 frozen Mode A models. run_id: `2543bfac27da45c8bfaf5c92fbd1e31e`, `a730e59128f34439a920bd73dfe2b696`, `14fe0b4726384159b316722b224172c3`, `b4a2507e14b64bb883685408481acc74`, `329a9d1abd9543e68044a4449ad811f5`, `9130b293320c4c9899231458cc1135d9`, `953612c6e9c44922839f9b62cc2bb400`.* Mode A models are trained on all 58 configurations, grid chosen by leave-one-model-out. Roles: `primary` is the AUTO-final candidate of the target (`mode-a-extras`), `secondary` the pre-declared extras (`final-mode-a-secondary`). 
+
+| target | candidate | role | params | sha256 | run_id | command | trained on | AUTO chose (folds) | S-LOMO run | file |
+|---|---|---|---|---|---|---|---|---|---|---|
+| energy_mJ | M1Ridge | primary | {"alpha": 10.0} | 0d7b2cc339c242b06e5a7733cf1fb4a6429c30271081577c91452df6c904dea2 | 2543bfac27da45c8bfaf5c92fbd1e31e | mode-a-extras | 58 configurations | {"M1Ridge": 6, "M3Factored": 3} | aa634083491146caa1898cb53dd5b2dc | matches |
+| energy_mJ | B3LogLinear | secondary | {} | cb0c40502b3b395bb0326d5c18e61b5be128f5fd4f9367a325f8e6781630b599 | a730e59128f34439a920bd73dfe2b696 | final-mode-a-secondary | 58 configurations |  |  | matches |
+| energy_mJ | M3Factored | secondary | {"latency": {"name": "M1Ridge", "params": {"alpha": 10.0}}, "power": {"name": "M1Ridge", "params": {"alpha": 0.1}}} | b15b9ce067454687a96a27eadf31c5a70f4723e61fb9882f0c85fbe37f269950 | 14fe0b4726384159b316722b224172c3 | final-mode-a-secondary | 58 configurations |  |  | matches |
+| latency_ms | M1Ridge | primary | {"alpha": 10.0} | d558746cd4c550a1c94c5255ce867a3e9a5f1a7d3a185131446141134a70b561 | b4a2507e14b64bb883685408481acc74 | mode-a-extras | 58 configurations | {"M1Ridge": 9} | d8d7ac3750c442d292c0a01511667235 | matches |
+| latency_ms | B3LogLinear | secondary | {} | aee0cf2e2054290e13e4693e8b67d503a129bba7426607795977885f222638a9 | 329a9d1abd9543e68044a4449ad811f5 | final-mode-a-secondary | 58 configurations |  |  | matches |
+| mean_P_W | M1Ridge | primary | {"alpha": 0.1} | 1180cf9f1c277014e575ba60f3ef7ddc84e7f37ce9d80fd907f5a45419adc961 | 9130b293320c4c9899231458cc1135d9 | mode-a-extras | 58 configurations | {"M1Ridge": 6, "M2Trees": 3} | a2b6e23cd011443f94994a250137159f | matches |
+| mean_P_W | B3LogLinear | secondary | {} | 7e1d0bdbbf7f0cb24050ec04b7342ba8681b355ca823496d66223c6758f218da | 953612c6e9c44922839f9b62cc2bb400 | final-mode-a-secondary | 58 configurations |  |  | matches |
+
+
+*Split: all training data. Target: frozen Mode L rungs. n = 8 frozen Mode L rungs. run_id: `66e8d6a51ac44595b0c46475b02a8c1b`, `5a06c7fda7914b8ebe8e040def4e9a2b`, `8238906e9a514389b4e60883272c652d`, `1dcfeb0b52d84bb2b8669c81637a6e36`, `97282373d11c468d9ebeb9c878a1762f`, `5dd3c845fc954b228b5849ed59488b50`, `95b3c3818cab45e8995863d1997b3346`, `b7f5c785c1f34e4489ee9519dd61b58f`.* `final-mode-l`: grid by leave-one-YOLO-model-out, refit on every QC-primary counter cell of the YOLO base models. 
+
+| rung | role | params | sha256 | run_id | cells | windows | file |
+|---|---|---|---|---|---|---|---|
+| L0 | secondary (pre-declared) | {} | a4c593764baf99d9a085b92bbd80d760feed4747275225ee0703d29568252649 | 66e8d6a51ac44595b0c46475b02a8c1b | 161 | 198619 | matches |
+| L1 | secondary (pre-declared) | {} | 00b9d92dc4bda699467a351635e96020e1df3b1484f3b02dc5d87ac6b352726c | 5a06c7fda7914b8ebe8e040def4e9a2b | 161 | 198619 | matches |
+| L1-cell | exploratory | {} | d0913ceb68774f68b36c06aeeb35a6e1d6bb747f7ed1e5e6361878af9c618413 | 8238906e9a514389b4e60883272c652d | 161 | 198619 | matches |
+| L2 | reported | {"alpha": 10.0} | 3a8ee3ca3ba1944fb428347d7b6834c8503ec473d4158820519eb3bd9871c6e5 | 1dcfeb0b52d84bb2b8669c81637a6e36 | 161 | 198619 | matches |
+| L3-ridge | reported | {"alpha": 0.1} | 6d6308ad41c04b9e94ac5f6194173e901120a26bf87c42d9b51feb153fcf5b78 | 97282373d11c468d9ebeb9c878a1762f | 161 | 198619 | matches |
+| L3-trees | secondary (pre-declared) | {"learning_rate": 0.1, "max_depth": 5, "max_iter": 200, "min_samples_leaf": 50} | 0d3aee5cfc383dd5307953d08c14f8d9378ab8929f455545fd3304f40e3c9ea5 | 5dd3c845fc954b228b5849ed59488b50 | 161 | 198619 | matches |
+| L4-ridge | reported | {"alpha": 0.01} | e4960733492f3142bef2e3244a36623583c126235a064d33f8ea9ebb613ac211 | 95b3c3818cab45e8995863d1997b3346 | 161 | 198619 | matches |
+| L4-trees | secondary (pre-declared) | {"learning_rate": 0.1, "max_depth": 5, "max_iter": 200, "min_samples_leaf": 50} | 9a711735eb3c665063f319e3c43f9f0b4a8d4a24432e57482fddf65ce58314fc | b7f5c785c1f34e4489ee9519dd61b58f | 161 | 198619 | matches |
 
 
[1 lines of base64/hex data omitted]
